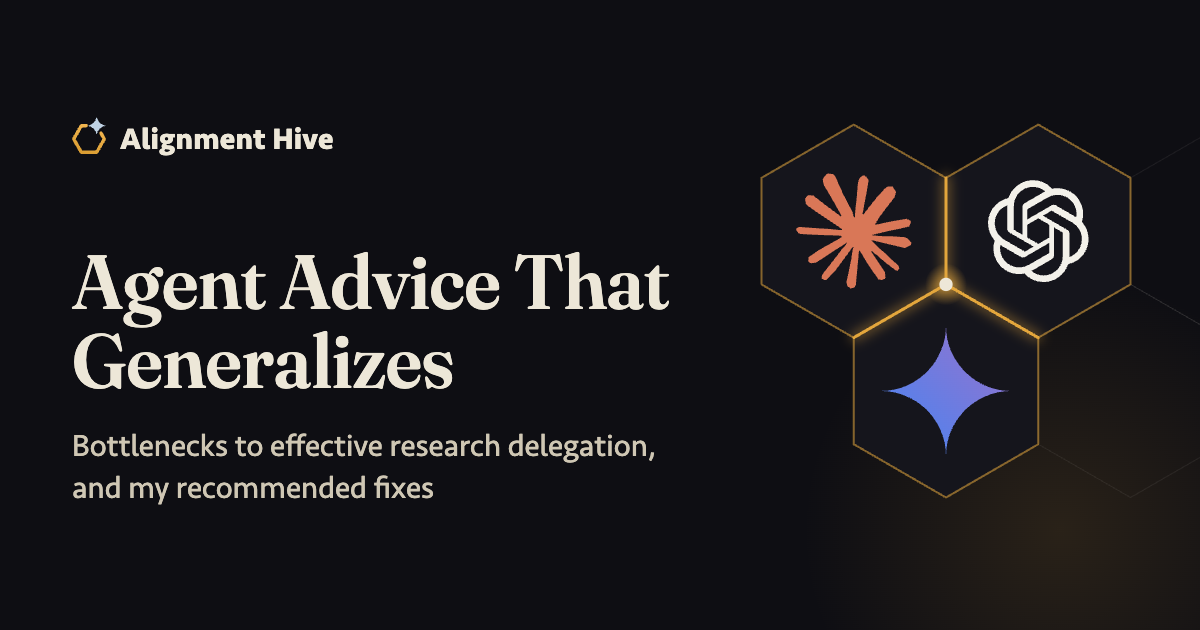
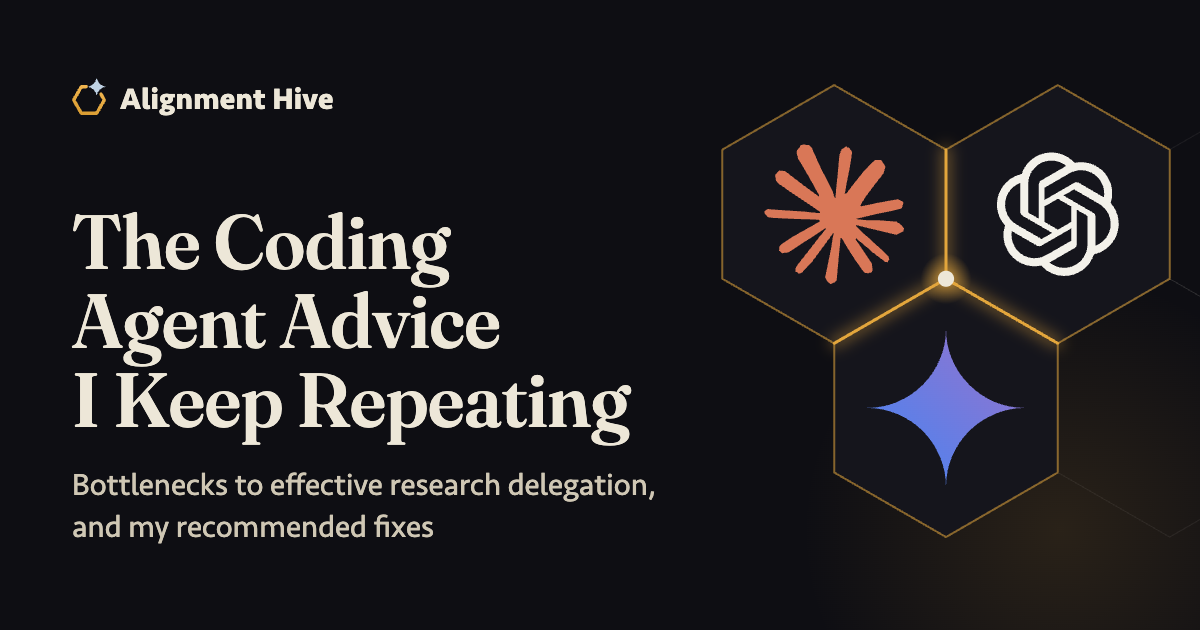
agent-advice: retitle to "The Coding Agent Advice I Keep Repeating"
The old title, "Agent Advice That Generalizes", claimed something the post
never argues and didn't name the topic. The new one matches the intro's own
framing. The preview image is re-rendered with the new title on three lines,
the comb refitted to span the brand line to the subtitle, and its URL gets
?v=2 so crawlers that cache images by URL fetch the new one.

Claude-Session: https://claude.ai/code/session_01MrjF9xHF323kYh84tjk1xJ

diff --git a/packages/web/src/routes/agent-advice.tsx b/packages/web/src/routes/agent-advice.tsx
@@ -1,4 +1,4 @@
-// "Agent Advice That Generalizes": the post's page. The text is in components/agent-advice/post.tsx.
+// "The Coding Agent Advice I Keep Repeating": the post's page. The text is in components/agent-advice/post.tsx.
 import { createFileRoute } from "@tanstack/react-router";
 import { useEffect, useRef } from "react";
 import aaCssUrl from "@/components/agent-advice/styles.css?url";
@@ -7,12 +7,12 @@ import { PostBody } from "@/components/agent-advice/post";
 import { initArticleAnalytics } from "@/lib/article-analytics";
 
 const URL = "https://www.alignment-hive.com/agent-advice";
-const TITLE = "Agent Advice That Generalizes";
+const TITLE = "The Coding Agent Advice I Keep Repeating";
 const DESC =
   "The advice I keep repeating to AI safety researchers who use coding agents: problems I've observed, and the best solutions I've found so far.";
-const OG_IMAGE = "https://www.alignment-hive.com/og/agent-advice.png";
+const OG_IMAGE = "https://www.alignment-hive.com/og/agent-advice.png?v=2";
 const OG_ALT =
-  "Agent Advice That Generalizes: bottlenecks to effective research delegation, and my recommended fixes. The Claude, OpenAI and Gemini marks sit in three joined honeycomb cells.";
+  "The Coding Agent Advice I Keep Repeating: bottlenecks to effective research delegation, and my recommended fixes. The Claude, OpenAI and Gemini marks sit in three joined honeycomb cells.";
 const GITHUB_URL = "https://github.com/Crazytieguy/alignment-hive";
 const EMAIL = "yoav.tzfati@gmail.com";
 const FONTS =
